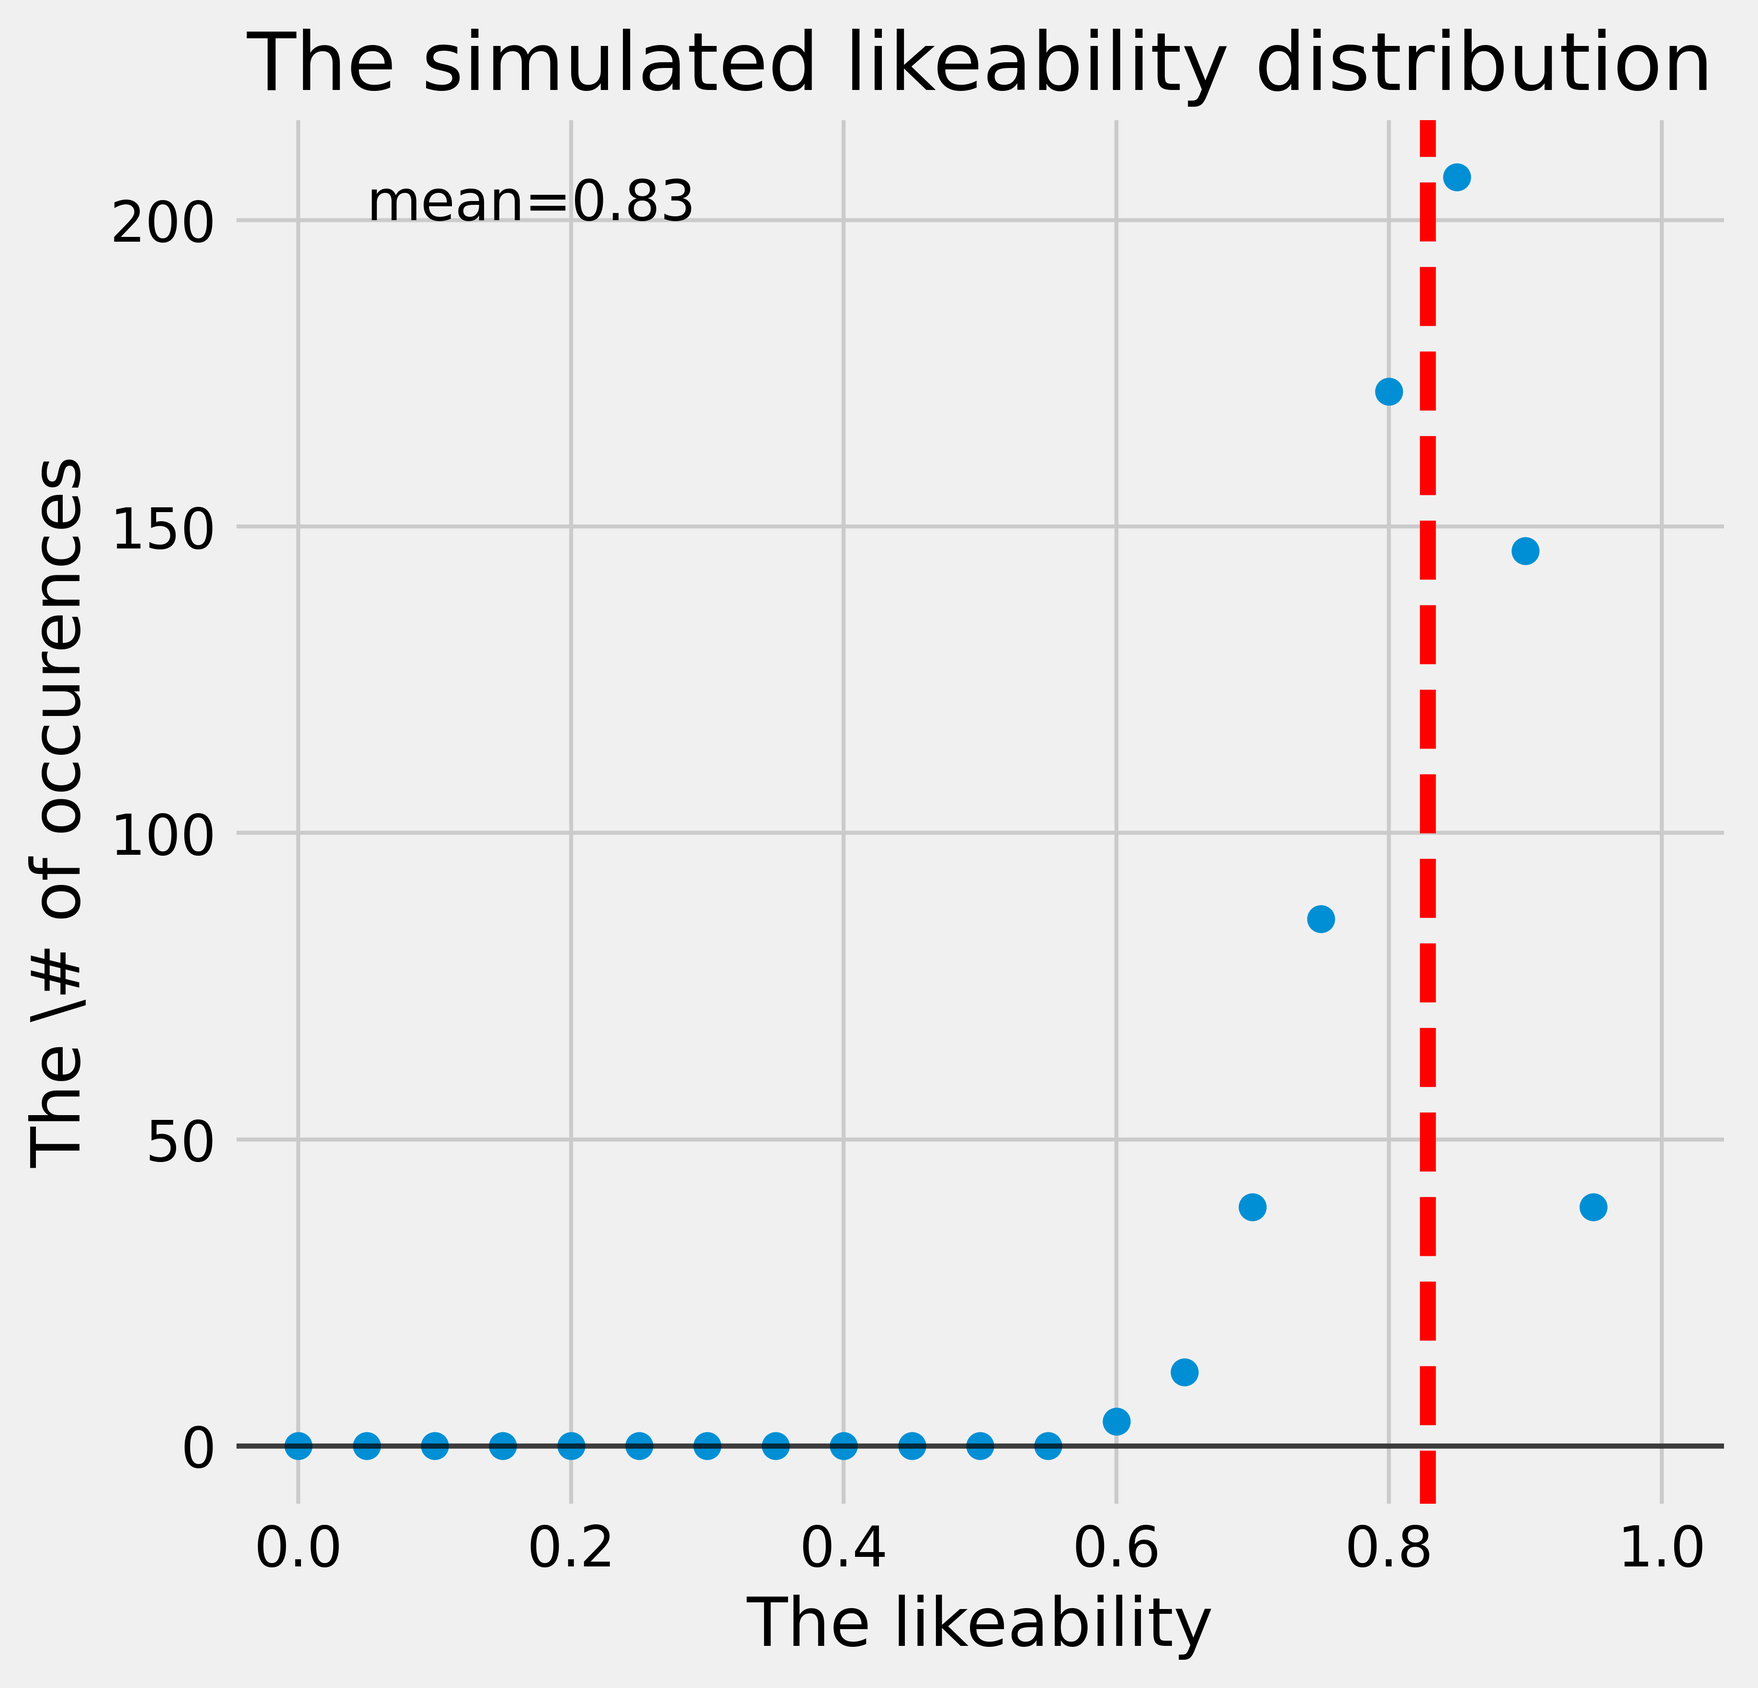
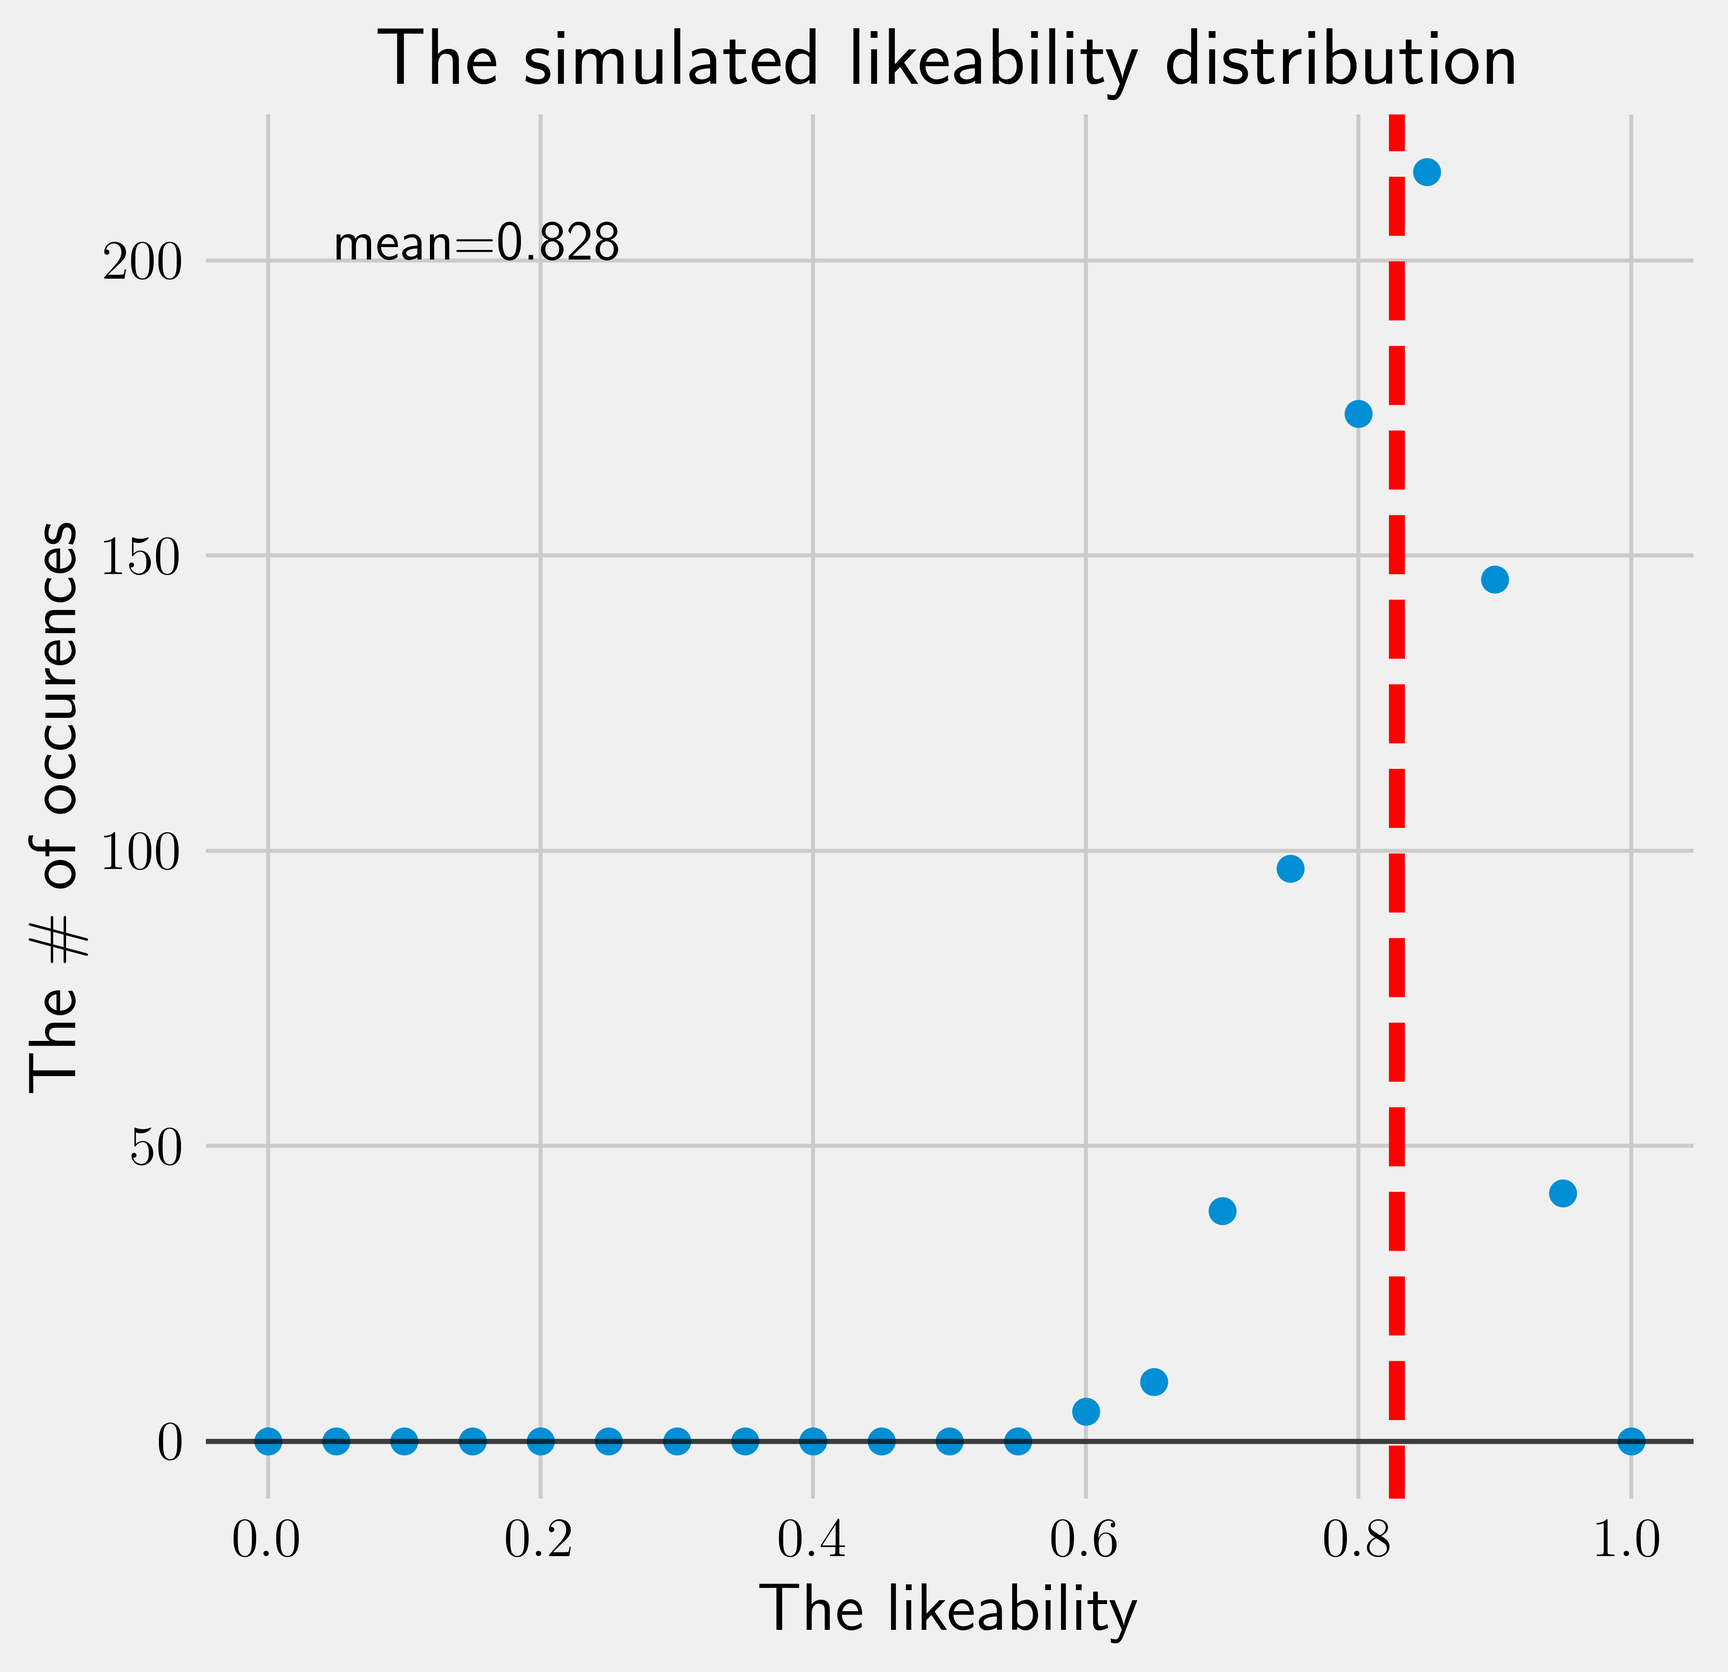
Added MATHIA Statistical Method

diff --git a/Maths/IA/ratio.tex b/Maths/IA/ratio.tex
@@ -63,7 +63,6 @@
 % referencing
 \usepackage[style=apa]{biblatex}
 \addbibresource{ratio.bib}
-\usepackage{hyperref}
 
 % table centering
 \renewcommand{\arraystretch}{1.3}
@@ -78,10 +77,27 @@
 \usepackage{subcaption}
 \usepackage{wrapfig}
 
-\title{Estimating the quality of YouTube videos based on its likes and dislikes}
+% fancy page numbers
+\usepackage{fancyhdr}
+% bottom right
+\pagestyle{fancy}
+\fancyhf{}
+\fancyfoot[R]{Page \thepage}
+\fancypagestyle{plain}{%
+    \renewcommand{\headrulewidth}{0pt}%
+    \fancyhf{}%
+    \fancyfoot[R]{Page \thepage}%
+}
+%go
+\renewcommand{\headrulewidth}{0pt}
 
-\author{}
-\date{\vspace{-8ex}}
+\usepackage{hyperref}
+
+\title{\vspace{-8ex}Estimating the quality of YouTube videos based on its likes and dislikes}
+
+\author{Terry Qi}
+\date{}
+%\date{\vspace{-8ex}}
 
 \begin{document}
 
@@ -209,7 +225,7 @@ Therefore the naive likeability definition is uninclusive of all information but
         & Video A & Video B & Video C & Video D & Video E \\
         \hline
         \hline
-        Naive Likeability & 1.000 & 1.000 & 0.872 & 1.000 & 0.997
+        Naive Likeability (3dp) & 1.000 & 1.000 & 0.872 & 1.000 & 0.997
     \end{tabular}
     \captionof{table}{}
     \label{tbl:naive}
@@ -275,7 +291,7 @@ Finally I decided to plot this relationship between \pythoninline{occurence} aga
 %\newpage
 
 \begin{wrapfigure}{r}{0.47\textwidth}
-    \includegraphics[width=0.42\textwidth,right]{assets/sim_ratings_v1.png}
+    \includegraphics[width=0.44\textwidth,right]{assets/sim_ratings_v1.png}
     \caption{}
     \label{fig:sim_ratings_v1}
 \end{wrapfigure}
@@ -284,19 +300,19 @@ To see the output, I ran the program with the parameters of 6 likes and 1 dislik
 
 The blue dots in figure \ref{fig:sim_ratings_v1} represents the simulated occurence of the video ratings out of 1000 samples of a chosen likeability (the likeabilities are selected with steps of 0.05 for clarity). The red vertical line graphs the mean likeability.
 
-The graph was both an expected and unexpected turnout. The simulation placed the likeability of video at 0.77, this is expected for there are certainly very little information available in only 7 ratings, but unexpected in size of the difference ($0.857-0.77=0.087$) against the naive likeability of 0.857. This shows that the naive likeability greatly overvalued the true likeability of the video.
+The graph was both an expected and unexpected turnout. The simulation placed the likeability of video at $0.776$, this is expected for there are certainly very little information available in only 7 ratings, but unexpected in size of the difference ($0.857-0.776=0.081$) against the naive likeability of 0.857. This shows that the naive likeability greatly overvalued the true likeability of the video.
 
 \begin{wrapfigure}{r}{0.47\textwidth}
-    \includegraphics[width=0.42\textwidth,right]{assets/sim_ratings_v2.png}
+    \includegraphics[width=0.44\textwidth,right]{assets/sim_ratings_v2.png}
     \caption{}
     \label{fig:sim_ratings_v2}
 \end{wrapfigure}
 
 
 By running the program with the parameters of the second video with 23 likes and 4 dislikes,
-we obtain a mean of 0.83 and figure \ref{fig:sim_ratings_v2}.
+we obtain a mean of $0.828$ and figure \ref{fig:sim_ratings_v2}.
 
-In comparison with its naive likeability, video two is less affected by the lack of information for the simulated likeability has much smaller difference ($0.851-0.83=0.021$) than we've seen in video one. This maybe imply (appendix table) that the naive likeability increases in accuracy the more information we have, which presents an extra requirement for our analytic solution later on.
+In comparison with its naive likeability, video two is less affected by the lack of information for the simulated likeability has much smaller difference ($0.851-0.828=0.023$) than we've seen in video one. This maybe imply (appendix table) that the naive likeability increases in accuracy the more information we have, which presents an extra requirement for our analytic solution later on.
 
 The shape of the graphs, or more formally, distributions of the likeabilities are also worth noting. They very much resemble a hill shaped curve that has a peek at only one likeability, and slopes increasing shallower the further away from the peek. Interestingly, the chosen metric of the statistical mean does not reflect the peek of the curve --- the red line does not intersect at the top of the curve. I believe this has to do with the long tail of zero occurrences at lower likeabilities, for they decreases the statistical mean in calculations.
 
@@ -309,7 +325,7 @@ Therefore the simulation approach had prove to be helpful in framing the questio
         & Video A & Video B & Video C & Video D & Video E \\
         \hline
         \hline
-        Simulated Likeability & 0.828 & 0.958 &  0.853 & 0.937 & 0.987
+        Simulated Likeability (3dp) & 0.828 & 0.958 &  0.853 & 0.937 & 0.987
     \end{tabular}
     \captionof{table}{}
     \label{tbl:simulation}
@@ -318,15 +334,143 @@ Therefore the simulation approach had prove to be helpful in framing the questio
 \section{Statistical}
 
 % what are distributions
-To search for a analytic (of symbols and operations) equation of the likeability metric, we must expand the idea of distributions that was touched on during simulations.
+To search for a analytic (of symbols and operations) equation of the likeability metric, we must expand the idea of distributions that was touched on during simulations. Remember that the simulation was used to compute the occurrences of a given rating for all ranges of likeabilities, and the statistical mean of the curve it creates is the simulated likeability of the video. It may be helpful to define this curve more mathematically without the element of chance.
 
 % examples of distributions
+Firstly, the likeability of a video can be thought of as a \textbf{random variable} of symbol $L$. A statistical random variable represents uncertainty in a measurement of its domains --- the range of values the random variable could be.
+
+\begin{wrapfigure}{r}{0.45\textwidth}
+    \includegraphics[width=0.43\textwidth,right]{assets/discrete_uniform_pdfs.png}
+    \caption{}
+    \label{fig:discrete_uniform}
+\end{wrapfigure}
+
+Consider rolling a regular six sided dice. The side facing up after a roll can take the values from 1 to 6, inclusive, represented by a random variable say $X$. Notice that unless the dice was biased, there is no reason to assume that one value is more probable than the other. In other words, each value of the range of possible values have equal probability of occurrence, precisely $\frac{1}{6}$. The probability can be represented as a distribution as in figure \ref{fig:discrete_uniform}.
+
+The probability distribution of the random variable $X$ can also be denoted as a discrete uniform distribution. Discrete meaning the domain is of countable size; uniform meaning that all possible values have the same probability.
+
+More formally, the distribution is also defined by its probability function, which is a function mapping a possible value to its chance of occurence. For our random variable $X$, its probability function $f(X_i)$ is simply:
+
+\[
+    f(X_i) = \frac{1}{6}
+\]
+
+%But our random variable of likeability does not have a finite domain, I hear you say. The random variable $L$ has infinite values it could take, ranging from zero to one. Thankfully, we can extend our discrete distribution to a continuous distribution.
+
+To extend from a discrete distribution to a continuous distribution, consider a viewer's opinion on a video before they've seen the ratings. The likeability $L$ of the video will range continuously from zero to one, but unless the viewer has had a bad day, there is no reason to prefer a range of likeabilities to another. That is, chance of a specific likeability value is the same as any other value.
+
+\begin{wrapfigure}{r}{0.45\textwidth}
+    \includegraphics[width=0.43\textwidth,right]{assets/uniform_pdfs.png}
+    \caption{}
+    \label{fig:uniform}
+\end{wrapfigure}
+
+However, the y-axis of probabilities must be switched to probably densities, because it is no longer accurate to talk about a specific value's probability --- we must now consider the probability of a range of values instead. The area under the probability distribution must also be of value one for normalization. Therefore, the initial probability distribution is displayed in figure \ref{fig:uniform}, with a probability density function $f(L)$ of:
+
+\[
+    f(L) = 1
+\]
+
+The concept of continuous distribution restricts the probability distribution of our likeability metric. It can be defined as a probability density function $f(L)$, with an area of one.
 
 % the binominal
+Using the ratings of video one as an example (6 likes and 1 dislike), consider a single likeability value from the domain of the random likeability variable $L$, say 0.5. What is the probability we see the ratings of video one with a true likeability of 50\%? Another distribution models this kind of scenario.
 
-% blah
+\begin{wrapfigure}{r}{0.45\textwidth}
+    \includegraphics[width=0.43\textwidth,right]{assets/bino_pdfs.png}
+    \caption{}
+    \label{fig:bino}
+\end{wrapfigure}
+
+The binomial distribution is a probability distribution that summarizes the likelihood that a value will take one of two independent values under a given success chance and assumptions (modified citation). In short, the distribution will model the distribution of the number of likes in a sample of ratings given a true likeability. It is a discrete distribution, and its discrete probability distribution function $f(x)$ is of the form:
+\[
+    f(x) = {n \choose x} p^x (1-p)^{n-x},
+\]
+where $n$ is the amount of ratings, and $p$ is the true likeability of the video. When graphed using the parameters of video one, the distribution resembles to that of figure \ref{fig:bino}.
+
+While the distribution displays all the possible likes/dislikes combinations, the value that is of interest is colored in red. The figure describes the probability of getting 6 likes in 7 ratings as about 0.05, or 5\%. Or as a single calculation:
+\[
+    f(6) = {7 \choose 6} (0.5)^6 (1-0.5)^{7-6} \approx 0.05
+\]
+Therefore for each likeability of our random variable $L$, its probability is $f(6)$ with the variable $p$ replaced by the likeability. Therefore I was able to guess the probability density function $G(l)$ of our random variable as so (where $l$ are the range of likeabilities):
+\[
+    G(l) = {n \choose x} l^x (1-l)^{n-x} = {7 \choose 6} l^6 (1-l) ^{7-1}
+\]
+When graphed on a software, the likeability distribution looks like the left graph of figure \ref{fig:beta}.
+
+\begin{figure}[H]
+    \centering
+    \includegraphics[width=1\textwidth]{assets/beta_pdfs.png}
+    \caption{}
+    \label{fig:beta}
+\end{figure}
+
+The curve plotted by $G(l)$ has a tail towards the left, with a singular peek near the value $0.85$. But the figure shows that it has an area of only $0.12$, which does not fit the requirement of a probability density function (of area one). I attempted to normalize this distribution by dividing it by its area $A$, that is:
+\begin{align*}
+    A &= \int_{0}^{1} G(l) \, dl\\
+    &= \int_{0}^{1} {n \choose x} l^x (1-l)^{n-x} \, dl\\
+    &\approx 0.12
+\end{align*}
+Thus I was able to construct the normalized probability density function $K(l)$ for the likeability random variable (shown by the right graph of figure \ref{fig:beta}):
+\begin{align*}
+    K(l) &= \frac{G(l)}{A}\\
+    &= \frac{ {n \choose x} l^x (1-l)^{n-x}} {\int_{0}^{1} {n \choose x} l^x (1-l)^{n-x} \, dl}
+\end{align*}
+We are now able to take the statistical mean $\mu$ of this function, which would be the statistical solution of the estimated likeability of the video. Notice that we can restrict the integral bounds for the probability density function is only defined between 0 to 1:
+\begin{align*}
+    \mu &= \int_{-\infty}^{\infty} l K(l) \, dl\\
+    &=\int_{0}^{1} l K(l) \, dl\\
+    &=\int_{0}^{1} l \frac{ {n \choose x} l^x (1-l)^{n-x}} {\int_{0}^{1} {n \choose x} l^x (1-l)^{n-x} \, dl} \, dl
+\end{align*}
+While I was able to reduce the complexity of this integral by canceling the choose function and combining the exponents, the remain integral seems unsolvable to any integration method I know:
+\begin{align*}
+    \mu &=\int_{0}^{1} \frac{ l^{x+1} (1-l)^{n-x}} {\int_{0}^{1} l^x (1-l)^{n-x} \, dl} \, dl\\
+    &= \frac{1}{\int_{0}^{1} l^x (1-l)^{n-x} \, dl} \int_{0}^{1}  l^{x+1} (1-l)^{n-x} \, dl
+\end{align*}
+Thankfully, the internet was able to provide me a solution via a special function named the Beta function $B(x,y)$ and its relative the Gamma function $\Gamma(z)$(citation, wikipedia), which are defined as:
+\begin{align*}
+    B(x, y) &= \int_{0}^{1} l^{x-1} (1-l)^{y-1} dl\\
+    \Gamma(z) &= \int_{0}^{\infty} x^{z-1} e^{-x} \, dx
+\end{align*}
+To put it simply, the Gamma function is a analytic continuation of the factorial operation --- meaning that it generalizes the factorial operation outside the positive integers. It has two relevant identities. The first stating its relation with the factorial operation, the second showing its identity with the Beta function.
+\begin{align*}
+    \Gamma(z) &= (z-1)!\\
+    B(x, y) &= \frac{\Gamma(x) \Gamma(y)}{\Gamma(x + y)}
+\end{align*}
+I was able to simplify the formula for the statistical mean using the Beta function, which can be converted to a series of Gamma functions and therefore factorials:
+\begin{align*}
+    \mu &= \frac{1}{B(x+2, n-x+1)}B(x+1, n-x+1)\\
+    &= \frac{\frac{\Gamma(x+2)\Gamma(n-x+1)}{\Gamma(n+3)}}{\frac{\Gamma(x+1)\Gamma(n-x+1)}{\Gamma(n+2)}} =  \frac{\frac{(x+1)!(n-x)!}{(n+2)!}}{\frac{x!(n-x)!}{(n+1)!}}\\
+    &= \frac{x+1}{n+2} = \frac{6+1}{7+2} \approx 0.778
+\end{align*}
+It was surprising how neat the final solution was given the complexity that is the integral before. Furthermore, this shows that the statistical likeability of the video can be calculated by dividing the amount of likes plus one over the amount of ratings plus two, under the assumption that the initial likeability distribution was uniform.
+
+The small differences between the statistical method and the simulation method ($|0.776 - 0.778| = 0.002 \approx 2.58\%$) showcases both the correctness of our solution, but it also illustrates the power of simulations --- I did not have to do any maths to get an approximate answer. Additionally, the neat solution explains the validity of the naive method at large rating numbers, for the pluses become insignificant as their operands increases.
+
+Overall, the statistical method required a reasonable amount of statistical knowledge, and I was greatly assisted by the use of a computer program in checking the equalities between each simplifying step. However, it produced a tidy result that is easy to remember and fast to compute. Table \ref{tbl:stat} lists the five videos ranked by their statistical likeability.
+
+\begin{figure}[H]
+    \centering
+    \begin{tabular}{c|c|c|c|c|c}
+        & Video A & Video B & Video C & Video D & Video E \\
+        \hline
+        \hline
+        Statistical Likeability (3dp) & 0.833 & 0.926 & 0.854 & 0.941 & 0.994
+    \end{tabular}
+    \captionof{table}{}
+    \label{tbl:stat}
+\end{figure}
 
 \section{Bayesian}
+
+The premise of this section was hinted upon within the statistical analysis of the probability distribution of the likeability random variable. While it is often reasonable to accept a perfectly uniform distribution as the initial distribution of the likeability before seeing the rating, it may not be desirable in ranking the videos YouTube recommended to me, for they are very unlikely to be of low likeability before I even see their ratings. While these external factors are difficult to capture in traditional statistical distribution analysis, it is the core idea in a branch of statistics, Bayesian statistics.
+
+% frequenist, bayesian
+The core principles in the two branches of statistics differs in their interpretations of probabilities. The frequentists define the probability by the its percentage of occurrence as the sample size increases to infinity, with the manipulations of random variables being convolutions; the Bayesians perceive probabilities as a belief of the next event, which updates as new data are seen. The method of combining binomial and uniform distributions fits the frequentists view, but the Bayesian view perfectly fits my requirement of a changeable initial belief.
+
+% set up, definitions
+Consider the random variable likeability $L$ of the video. Its probability density function $f(l)$ represents a belief of the likeability of the video given all the current data available. Before seeing any new ratings, this function is called the \textbf{Prior}.
+% blah blah blah
 
 \section{Conclusion}
 
